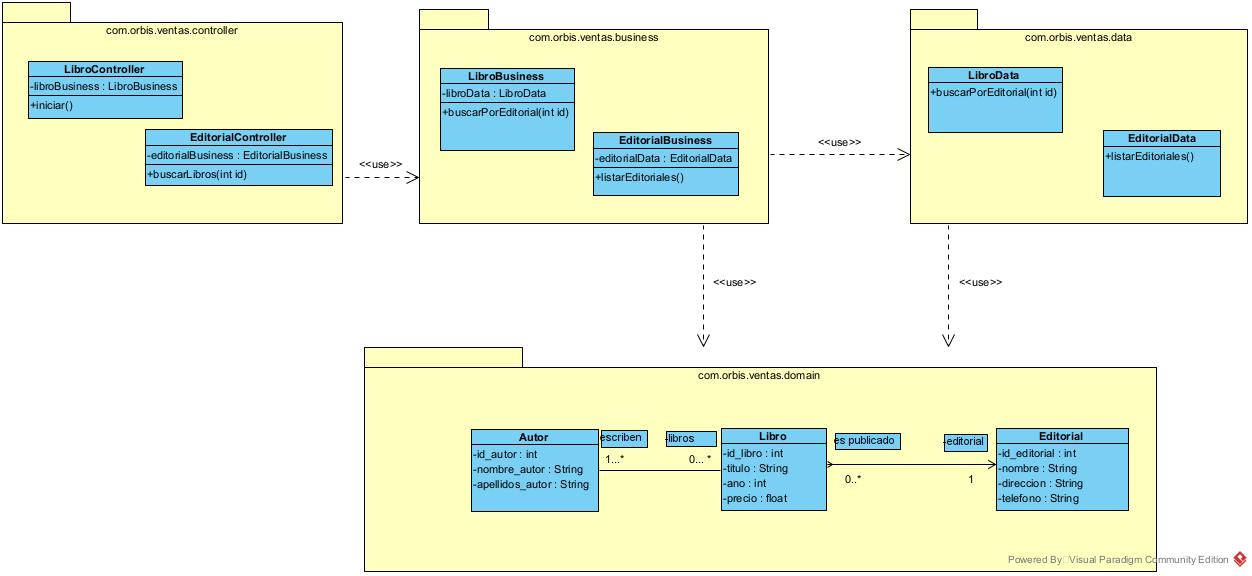
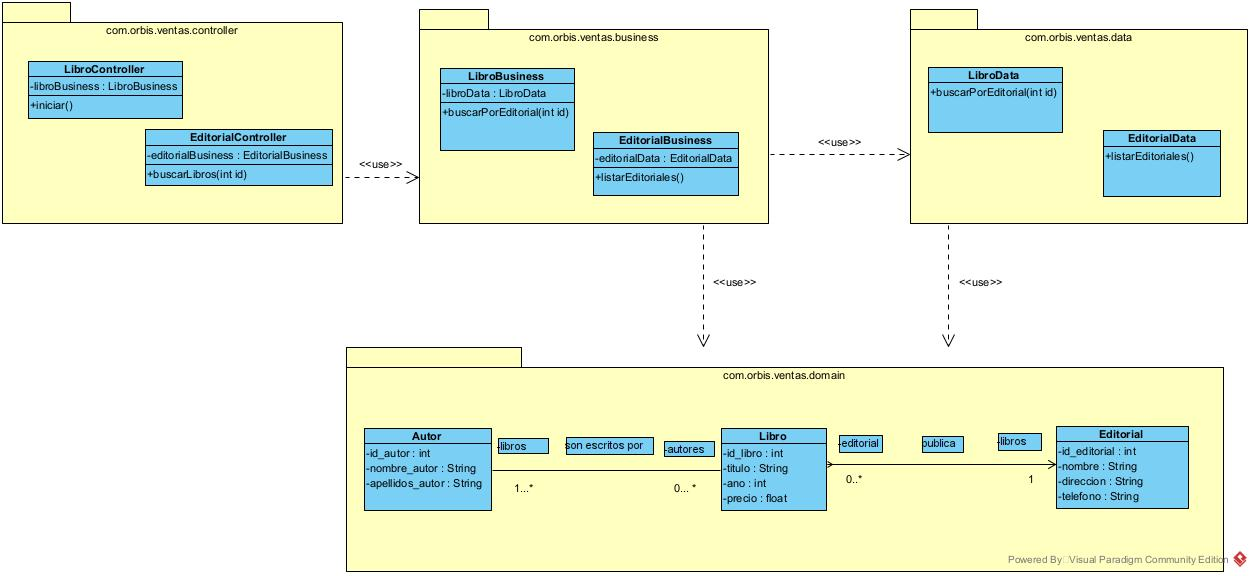
actualizacion de relaciones entre entre entidades

Changed region(s): [[0.6542, 0.625, 0.9968, 1.0], [0.2492, 0.5938, 0.5919, 1.0], [0.5607, 0.625, 0.6853, 0.6562]]

diff --git a/src/main/java/com/orbis/ventas/domain/Libro.java b/src/main/java/com/orbis/ventas/domain/Libro.java
@@ -8,20 +8,20 @@ public class Libro {
 	private String titulo;
 	private int ano;
 	private float precio;
-	private int id_editorial;
+	private Editorial editorial;
 	private List<Autor> autores;
 	
 	public Libro() {
 		
 	}
 	
-	public Libro(int id_libro, String titulo, int ano, float precio, int id_editorial) {
+	public Libro(int id_libro, String titulo, int ano, float precio, Editorial editorial) {
 		super();
 		this.id_libro = id_libro;
 		this.titulo = titulo;
 		this.ano = ano;
 		this.precio = precio;
-		this.id_editorial = id_editorial;
+		this.editorial = editorial;
 	}
 
 	public int getId_libro() {
@@ -56,13 +56,23 @@ public class Libro {
 		this.precio = precio;
 	}
 
-	public int getId_editorial() {
-		return id_editorial;
+	public Editorial getEditorial() {
+		return editorial;
 	}
 
-	public void setId_editorial(int id_editorial) {
-		this.id_editorial = id_editorial;
+	public void setEditorial(Editorial editorial) {
+		this.editorial = editorial;
 	}
+
+	public List<Autor> getAutores() {
+		return autores;
+	}
+
+	public void setAutores(List<Autor> autores) {
+		this.autores = autores;
+	}
+
+	
 	
 	
 

diff --git a/src/main/java/com/orbis/ventas/data/LibroExtractor.java b/src/main/java/com/orbis/ventas/data/LibroExtractor.java
@@ -10,6 +10,7 @@ import java.util.Map;
 import org.springframework.dao.DataAccessException;
 import org.springframework.jdbc.core.ResultSetExtractor;
 
+import com.orbis.ventas.domain.Editorial;
 import com.orbis.ventas.domain.Libro;
 
 public class LibroExtractor implements ResultSetExtractor<List<Libro>>{
@@ -22,7 +23,8 @@ public class LibroExtractor implements ResultSetExtractor<List<Libro>>{
 			libro = map.get(id);
 			if (libro == null) {
 				libro = new Libro();
-				libro.setId_editorial(id);
+				libro.setEditorial(new Editorial());
+				libro.getEditorial().setId_editorial(rs.getInt("id_editorial"));
 				libro.setId_libro(rs.getInt("id_libro"));
 				libro.setTitulo(rs.getString("titulo"));
 				libro.setAno(rs.getInt("ano"));

diff --git a/src/main/java/com/orbis/ventas/domain/Autor.java b/src/main/java/com/orbis/ventas/domain/Autor.java
@@ -1,10 +1,13 @@
 package com.orbis.ventas.domain;
 
+import java.util.List;
+
 public class Autor {
 
 	private int id_autor;
 	private String nombre_autor;
 	private String apellidos_autor;
+	private List<Libro> libros;
 	
 	public Autor(int id_autor, String nombre_autor, String apellidos_autor) {
 		super();
